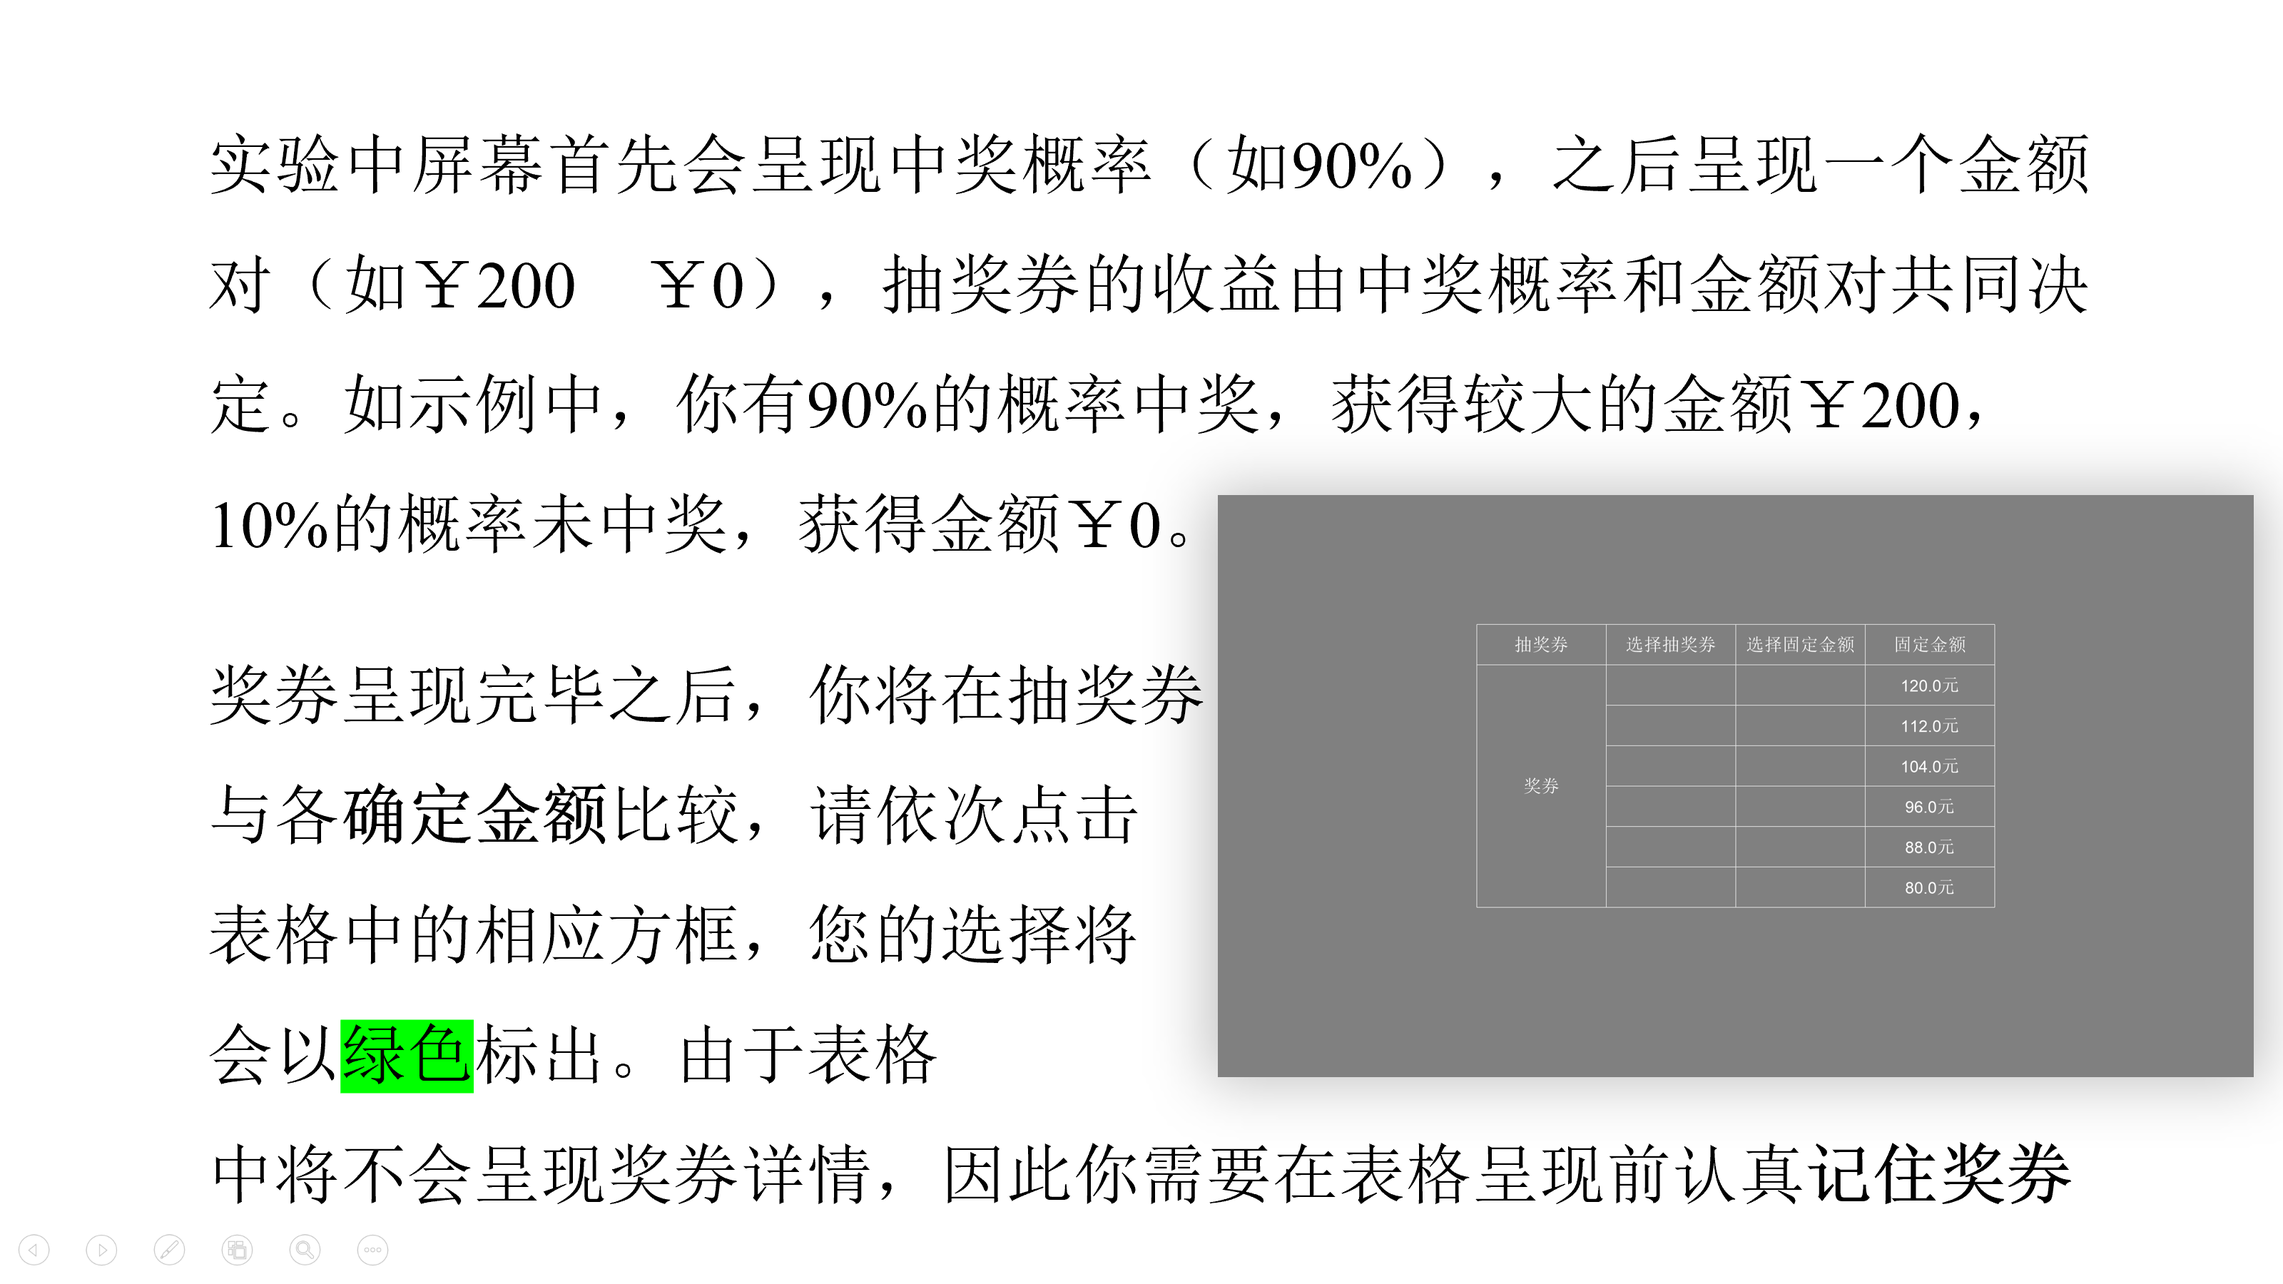
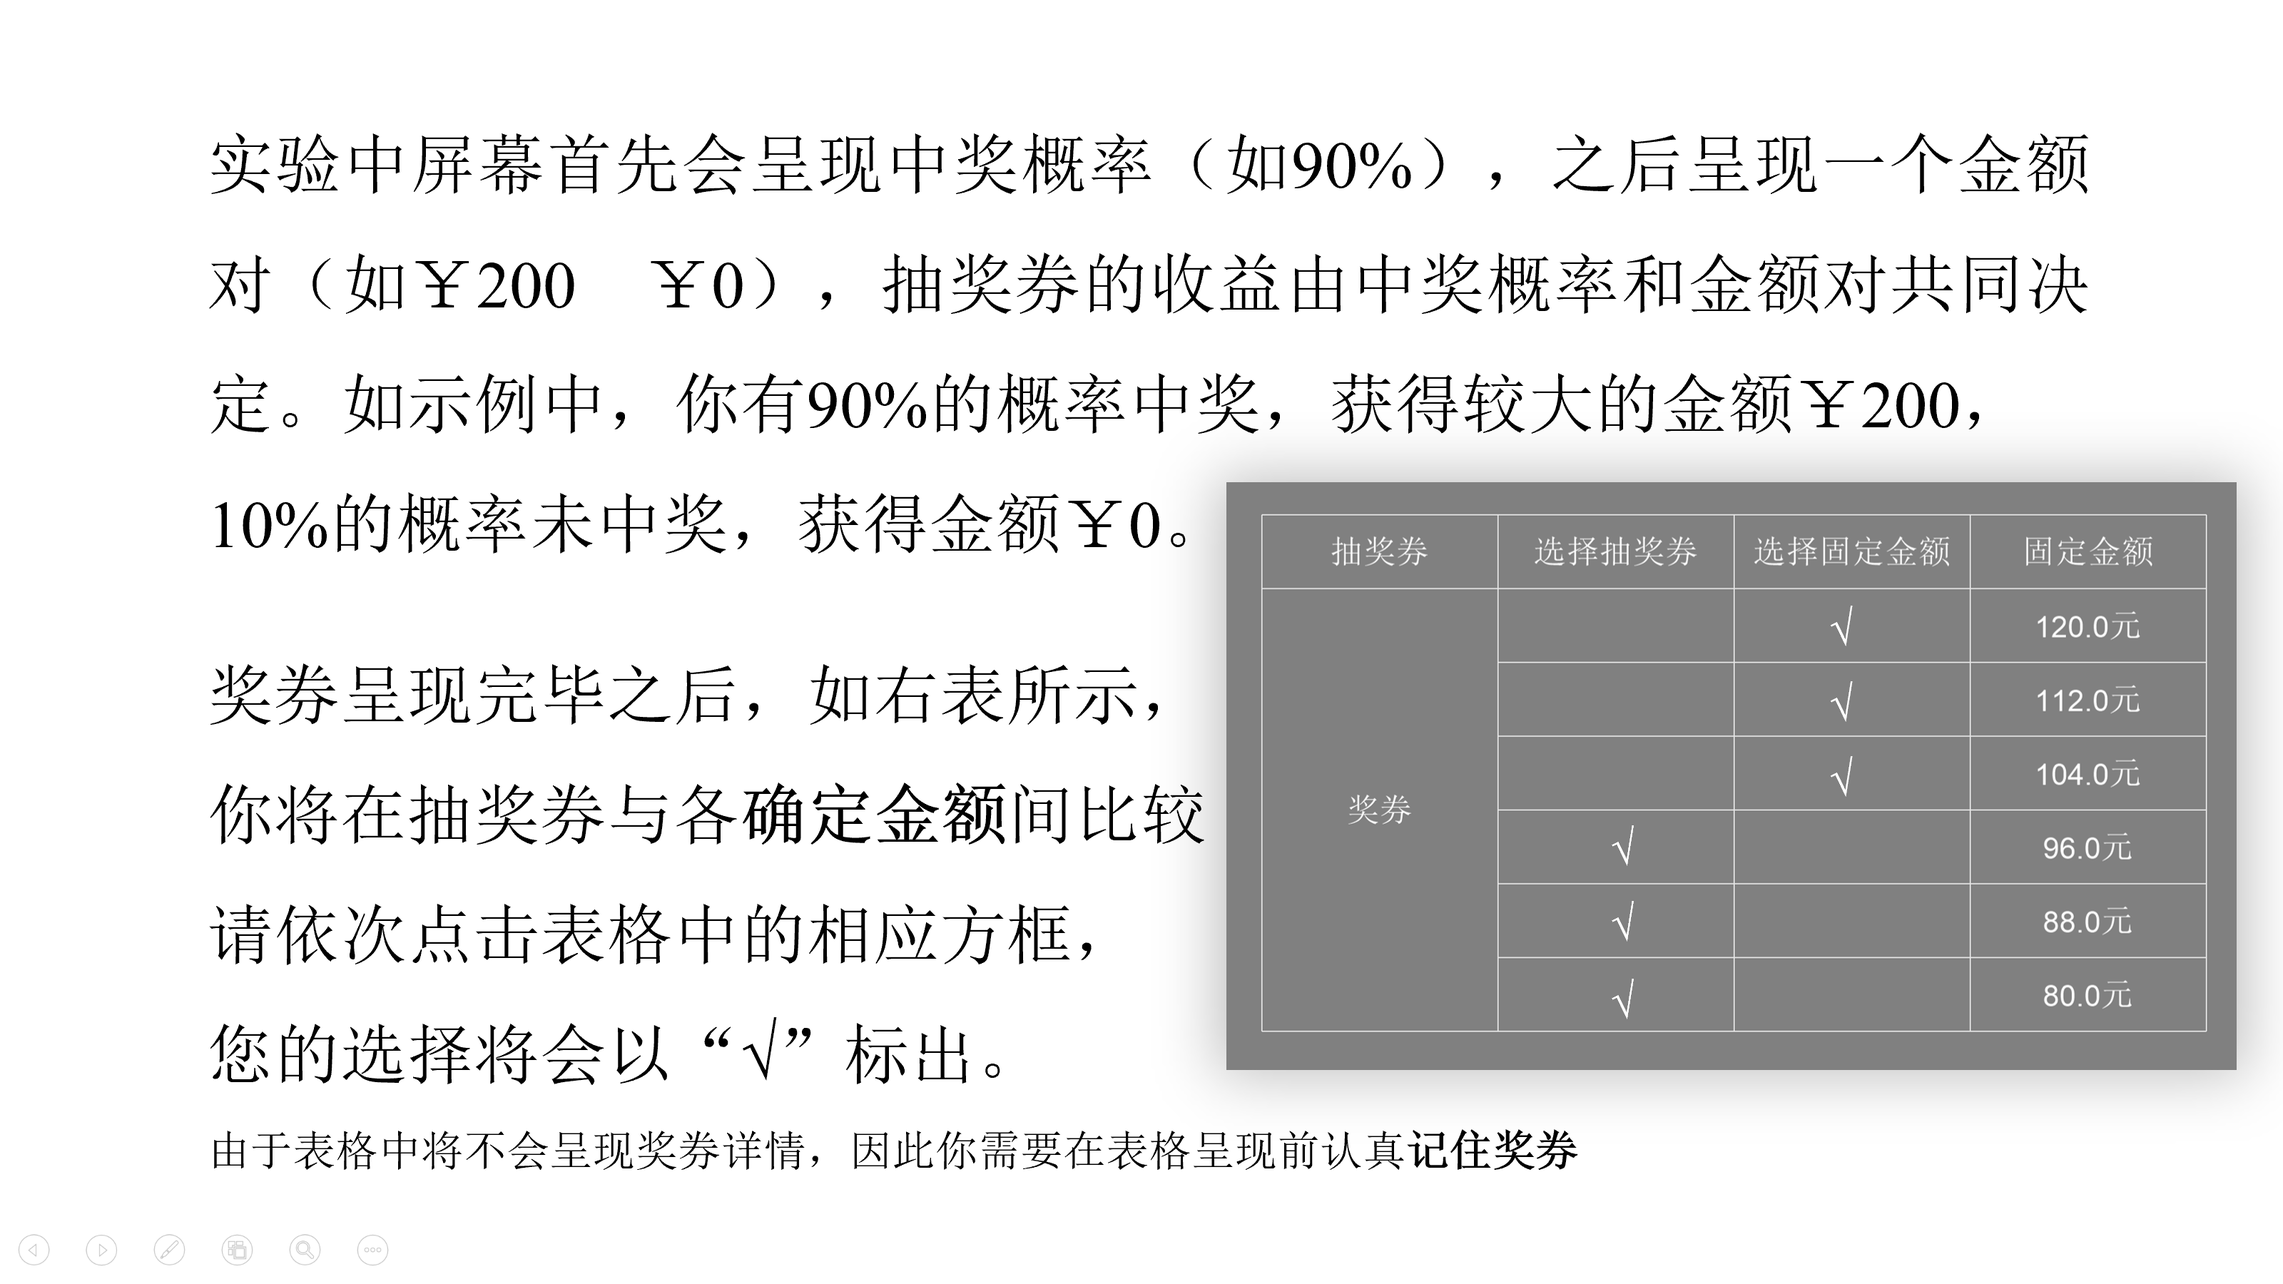
修改实验细节及bug

diff --git a/new_exp_behavior.py b/new_exp_behavior.py
@@ -103,7 +103,7 @@ else:
     closeGraphics()
 
 win = visual.Window(size=(w, h), fullscr=True, units='pix', color=[0, 0, 0])
-
+closeGraphics()
 card_pos = [[0 for i in range(3)]for i in range(7)]
 table = [[0 for i in range(3)]for i in range(7)]
 value = [[0 for i in range(3)]for i in range(7)]
@@ -230,78 +230,82 @@ for ii in range(5):
             state = 'running'
             value = [[0 for i in range(3)] for i in range(7)]
             while True:
-                if state == 'running':
-                    for i in range(1, 7):
-                        for j in range(2):
-                            if table[i][j].contains(myMouse) and value[i][j] == 0:
-                                table[i][j].fillColor = [0, 1, 0]
-                                table[i][j].opacity = 0.3
-                            elif value[i][j] == 0:
-                                table[i][j].opacity = 1
-                                table[i][j].fillColor = [0., 0., 0.]
-                            else:
-                                table[i][j].fillColor = [0, 1, 0]
-                                table[i][j].opacity = 0.8
-                            if myMouse.isPressedIn(table[i][j]) and value[i][j] == 0:
-                                value[i] = [0]*3
-                                value[i][j] = 1
-                                table[i][j].fillColor = [0, 1, 0]
-                                table[i][j].opacity = 0.8
-                            table[i][j].draw()
-                    for j in range(3):
-                        table[0][j].draw()
-                    for i in range(7):
-                        table[i][2].draw()
-                    for i in range(4):
-                        title[i].draw()
-                    table_jiangquan.draw()
-                    table_p.draw()
-                    ticket.draw()
-                    for i in range(6):
-                        sure_reward[i].text = u"%s元"%col_p[i]
-                        sure_reward[i].height = h/36
-                        sure_reward[i].draw()
-                    key = event.getKeys(["escape"])
-                    if "escape" in key:
-                        state = "exit"
-                    check = [0]*(7-1)
-                    now = [0]*(7-1)
-                    point = 0
-                    for i in range(1, 7):
-                        point += value[i][0]+value[i][1]
-                        if value[i][1] == 1:
-                            now[i-1] = 1
-                    j = 0
-                    while j <= 5:
-                        if value[j+1][1] == 1:
-                            check[j] = 1
-                        else:
-                            break
-                        j += 1
-                    if check == now and point == 6 and check[5] + check[0] == 1:
-                        if ok_shape.contains(myMouse):
-                            ok_shape.fillColor = [0, 1, 0]
-                            ok_shape.opacity = 0.4
-                        else:
-                            ok_shape.fillColor = [0, 0, 0]
-                            ok_shape.opacity = 1
-                        ok_shape.draw()
-                        ok.draw()
-                    win.flip()
-                    if check == now and myMouse.isPressedIn(ok_shape):
-                        change = sum(check)
-                        x1 = col_p[change-1]
-                        y1 = col_p[change]
-                        state = "quit"
-                if state == "quit":
-                    win.flip()
-                    break
-                if state == "exit":
-                    win.flip()
-                    win.close()
-                    core.quit()
-            win.flip()
-            core.wait(0.5)
+                            if state == 'running':
+                                for i in range(1, 7):
+                                    for j in range(2):
+                                        if table[i][j].contains(myMouse) and value[i][j] == 0:
+                                            pass
+                                        elif value[i][j] == 0:
+                                            pass
+                                        else:
+                                            dui.pos = gou_pos[i][j]
+                                            dui.draw()
+                                        if myMouse.isPressedIn(table[i][j]) and value[i][j] == 0:
+                                            value[i] = [0]*3
+                                            value[i][j] = 1
+                                            dui.pos = gou_pos[i][j]
+                                            dui.draw()
+                                        table[i][j].draw()
+                                for j in range(3):
+                                    table[0][j].draw()
+                                for i in range(7):
+                                    table[i][2].draw()
+                                for i in range(4):
+                                    title[i].draw()
+                                table_jiangquan.draw()
+                                table_p.draw()
+                                ticket.draw()
+                                for i in range(6):
+                                    sure_reward[i].text = u"%s元"%int(col_p[i])
+                                    sure_reward[i].height = h/36
+                                    sure_reward[i].draw()
+                                key = event.getKeys(["escape"])
+                                if "escape" in key:
+                                    state = "exit"
+                                check = [0]*(7-1)
+                                now = [0]*(7-1)
+                                point = 0
+                                for i in range(1, 7):
+                                    point += value[i][0]+value[i][1]
+                                    if value[i][1] == 1:
+                                        now[i-1] = 1
+                                j = 0
+                                while j <= 5:
+                                    if value[j+1][1] == 1:
+                                        check[j] = 1
+                                    else:
+                                        break
+                                    j += 1
+                                if check == now and point == 6 and check[5] + check[0] == 1:
+                                    if ok_shape.contains(myMouse):
+                                        ok_shape.fillColor = [-1, -1, -1]
+                                        ok_shape.opacity = 0.3
+                                    else:
+                                        ok_shape.fillColor = [0, 0, 0]
+                                        ok_shape.opacity = 1
+                                    ok_shape.draw()
+                                    ok.draw()
+                                win.flip()
+                                # 获得被试所选转折点
+                                if check == now and myMouse.isPressedIn(ok_shape):
+                                    change = sum(check)
+                                    x1 = col_p[change-1]
+                                    y1 = col_p[change]
+                                    # 标记为第二轮
+                                    state = "quit"
+                            # 进入下一层
+                            if state == "quit":
+                                win.flip()
+                                break
+                            # 强行终止
+                            if state == "exit":
+                                win.flip()
+                                win.close()
+                                core.quit()
+                        win.flip()
+                        if flag == 1:
+                            myMouse.setVisible(0)
+                        core.wait(0.5)
         # trial结束
         core.wait(random.randrange(20, 41, step=1) / 10. - 0.5)
 
@@ -369,7 +373,7 @@ for ii in range(5):
         # 发送信号-概率
         # parallel.setData(1)
         getEYELINK().sendMessage('Probability p:%s, n:%s' % (p_v, tr))
-        core.wait(random.randrange(30, 41, step=1) / 100.)
+        core.wait(random.randrange(60, 81, step=1) / 20.)
         # parallel.setData(0)
         win.flip()
         core.wait(0.2)
@@ -422,7 +426,7 @@ for ii in range(5):
                             if myMouse.isPressedIn(table[i][j]) and value[i][j] == 0:
                                 clk_data['rt'].append(clk2.getTime())
                                 clk_data['gamble'].append(i)
-                                clk_data['reward'].append(col_p[i])
+                                clk_data['reward'].append(col_p[i-1])
                                 clk_data['y'].append(j)
                                 clk_data['p'].append(p_v)
                                 clk_data['x1'].append(x)
@@ -511,6 +515,8 @@ for ii in range(5):
             # parallel.setData(0)
             getEYELINK().sendMessage("Reward %s end"%flag)
             result['RT'].append(rt)
+            if flag == 1:
+                myMouse.setVisible(0)
             core.wait(0.5)
         # trial结束
         # parallel.setData(250)

diff --git a/new_exp.py b/new_exp.py
@@ -103,7 +103,7 @@ else:
     closeGraphics()
 
 win = visual.Window(size=(w, h), fullscr=True, units='pix', color=[0, 0, 0])
-
+closeGraphics()
 card_pos = [[0 for i in range(3)]for i in range(7)]
 table = [[0 for i in range(3)]for i in range(7)]
 value = [[0 for i in range(3)]for i in range(7)]
@@ -187,6 +187,10 @@ myMouse.setVisible(0)
 flag = 0
 x1 = 0
 y1 = 0
+ticket = visual.TextStim(win)
+ticket.text = u"奖券"
+ticket.pos = (-1.5 * a, 0)
+ticket.height = h / 36
 for ii in range(5):
     for jj in [random.randrange(0, 33, step=1)]:
         tr = ii*33+jj
@@ -194,13 +198,9 @@ for ii in range(5):
         p_v = trial['p']
         (x, y) = trial['v']
         core.wait(0.1)
-        ticket = visual.TextStim(win)
-        ticket.text = u"奖券"
-        ticket.pos = (-1.5 * a, 0)
-        ticket.height = h / 36
         fix.draw()
         win.flip()
-        core.wait(t_trial['t_fix'])
+        core.wait(0.5)
         text_p.text = "%s%%" % int(100 * p_v)
         text_p.draw()
         win.flip()
@@ -220,8 +220,8 @@ for ii in range(5):
         core.wait(3)
         win.flip()
         core.wait(0.2)
-        myMouse.setVisible(1)
         for flag in range(2):
+            myMouse.setVisible(1)
             col = [0]*2
             col[0] = [x-k*(x-y)/5 for k in range(6)]
             if flag == 1:
@@ -234,19 +234,17 @@ for ii in range(5):
                     for i in range(1, 7):
                         for j in range(2):
                             if table[i][j].contains(myMouse) and value[i][j] == 0:
-                                table[i][j].fillColor = [0, 1, 0]
-                                table[i][j].opacity = 0.3
+                                pass
                             elif value[i][j] == 0:
-                                table[i][j].opacity = 1
-                                table[i][j].fillColor = [0., 0., 0.]
+                                pass
                             else:
-                                table[i][j].fillColor = [0, 1, 0]
-                                table[i][j].opacity = 0.8
+                                dui.pos = gou_pos[i][j]
+                                dui.draw()
                             if myMouse.isPressedIn(table[i][j]) and value[i][j] == 0:
                                 value[i] = [0]*3
                                 value[i][j] = 1
-                                table[i][j].fillColor = [0, 1, 0]
-                                table[i][j].opacity = 0.8
+                                dui.pos = gou_pos[i][j]
+                                dui.draw()
                             table[i][j].draw()
                     for j in range(3):
                         table[0][j].draw()
@@ -258,8 +256,8 @@ for ii in range(5):
                     table_p.draw()
                     ticket.draw()
                     for i in range(6):
-                        sure_reward[i].text = u"%s元"%col_p[i]
-                        sure_reward[i].height = h/36
+                        sure_reward[i].text = u"%s元"%int(col_p[i])
+                        sure_reward[i].height = h/30
                         sure_reward[i].draw()
                     key = event.getKeys(["escape"])
                     if "escape" in key:
@@ -280,27 +278,33 @@ for ii in range(5):
                         j += 1
                     if check == now and point == 6 and check[5] + check[0] == 1:
                         if ok_shape.contains(myMouse):
-                            ok_shape.fillColor = [0, 1, 0]
-                            ok_shape.opacity = 0.4
+                            ok_shape.fillColor = [-1, -1, -1]
+                            ok_shape.opacity = 0.3
                         else:
                             ok_shape.fillColor = [0, 0, 0]
                             ok_shape.opacity = 1
                         ok_shape.draw()
                         ok.draw()
                     win.flip()
+                    # 获得被试所选转折点
                     if check == now and myMouse.isPressedIn(ok_shape):
                         change = sum(check)
                         x1 = col_p[change-1]
                         y1 = col_p[change]
+                        # 标记为第二轮
                         state = "quit"
+                # 进入下一层
                 if state == "quit":
                     win.flip()
                     break
+                # 强行终止
                 if state == "exit":
                     win.flip()
                     win.close()
                     core.quit()
             win.flip()
+            if flag == 1:
+                myMouse.setVisible(0)
             core.wait(0.5)
         # trial结束
         core.wait(random.randrange(20, 41, step=1) / 10. - 0.5)
@@ -354,14 +358,10 @@ for ii in range(5):
         result['1-p'].append(1-p_v)
         result['x'].append(x)
         result['y'].append(y)
-        ticket = visual.TextStim(win)
-        ticket.text = u"奖券"
-        ticket.pos = (-1.5 * a, 0)
-        ticket.height = h / 36
         # 注视点
         fix.draw()
         win.flip()
-        core.wait(t_trial['t_fix'])
+        core.wait(0.5)
         # 概率
         text_p.text = "%s%%" % int(100 * p_v)
         text_p.draw()
@@ -369,7 +369,7 @@ for ii in range(5):
         # 发送信号-概率
         parallel.setData(1)
         getEYELINK().sendMessage('Probability p:%s, n:%s' % (p_v, tr))
-        core.wait(random.randrange(30, 41, step=1) / 100.)
+        core.wait(random.randrange(60, 81, step=1) / 20.)
         parallel.setData(0)
         win.flip()
         core.wait(0.2)
@@ -393,8 +393,8 @@ for ii in range(5):
         win.flip()
         core.wait(0.2)
         # 选择
-        myMouse.setVisible(1)
         for flag in range(2):
+            myMouse.setVisible(1)
             # 发送信号-选择
             parallel.setData(3)
             getEYELINK().sendMessage('Reward %s begin' % flag)
@@ -422,7 +422,7 @@ for ii in range(5):
                             if myMouse.isPressedIn(table[i][j]) and value[i][j] == 0:
                                 clk_data['rt'].append(clk2.getTime())
                                 clk_data['gamble'].append(i)
-                                clk_data['reward'].append(col_p[i])
+                                clk_data['reward'].append(col_p[i-1])
                                 clk_data['y'].append(j)
                                 clk_data['p'].append(p_v)
                                 clk_data['x1'].append(x)
@@ -444,7 +444,7 @@ for ii in range(5):
                     ticket.draw()
                     for i in range(6):
                         sure_reward[i].text = u"%s元"%int(col_p[i])
-                        sure_reward[i].height = h/36
+                        sure_reward[i].height = h/30
                         sure_reward[i].draw()
 
                     key = event.getKeys(["escape"])
@@ -511,6 +511,8 @@ for ii in range(5):
             parallel.setData(0)
             getEYELINK().sendMessage("Reward %s end"%flag)
             result['RT'].append(rt)
+            if flag == 1:
+                myMouse.setVisible(0)
             core.wait(0.5)
         # trial结束
         parallel.setData(250)
